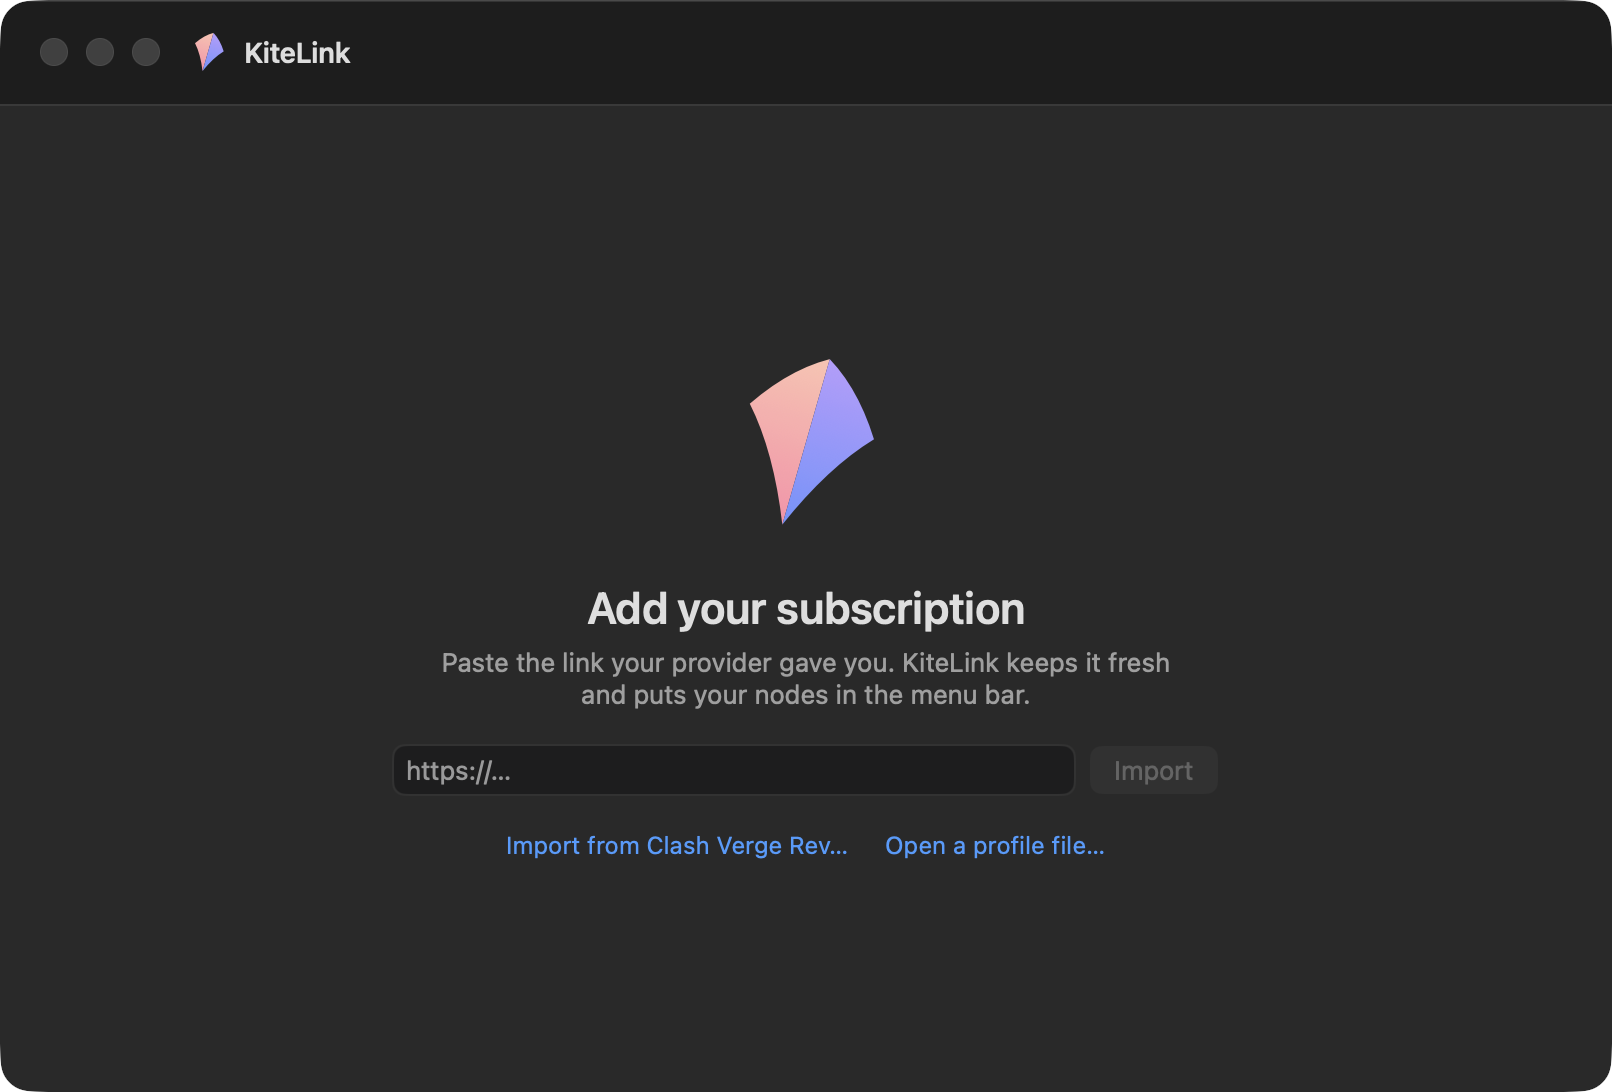
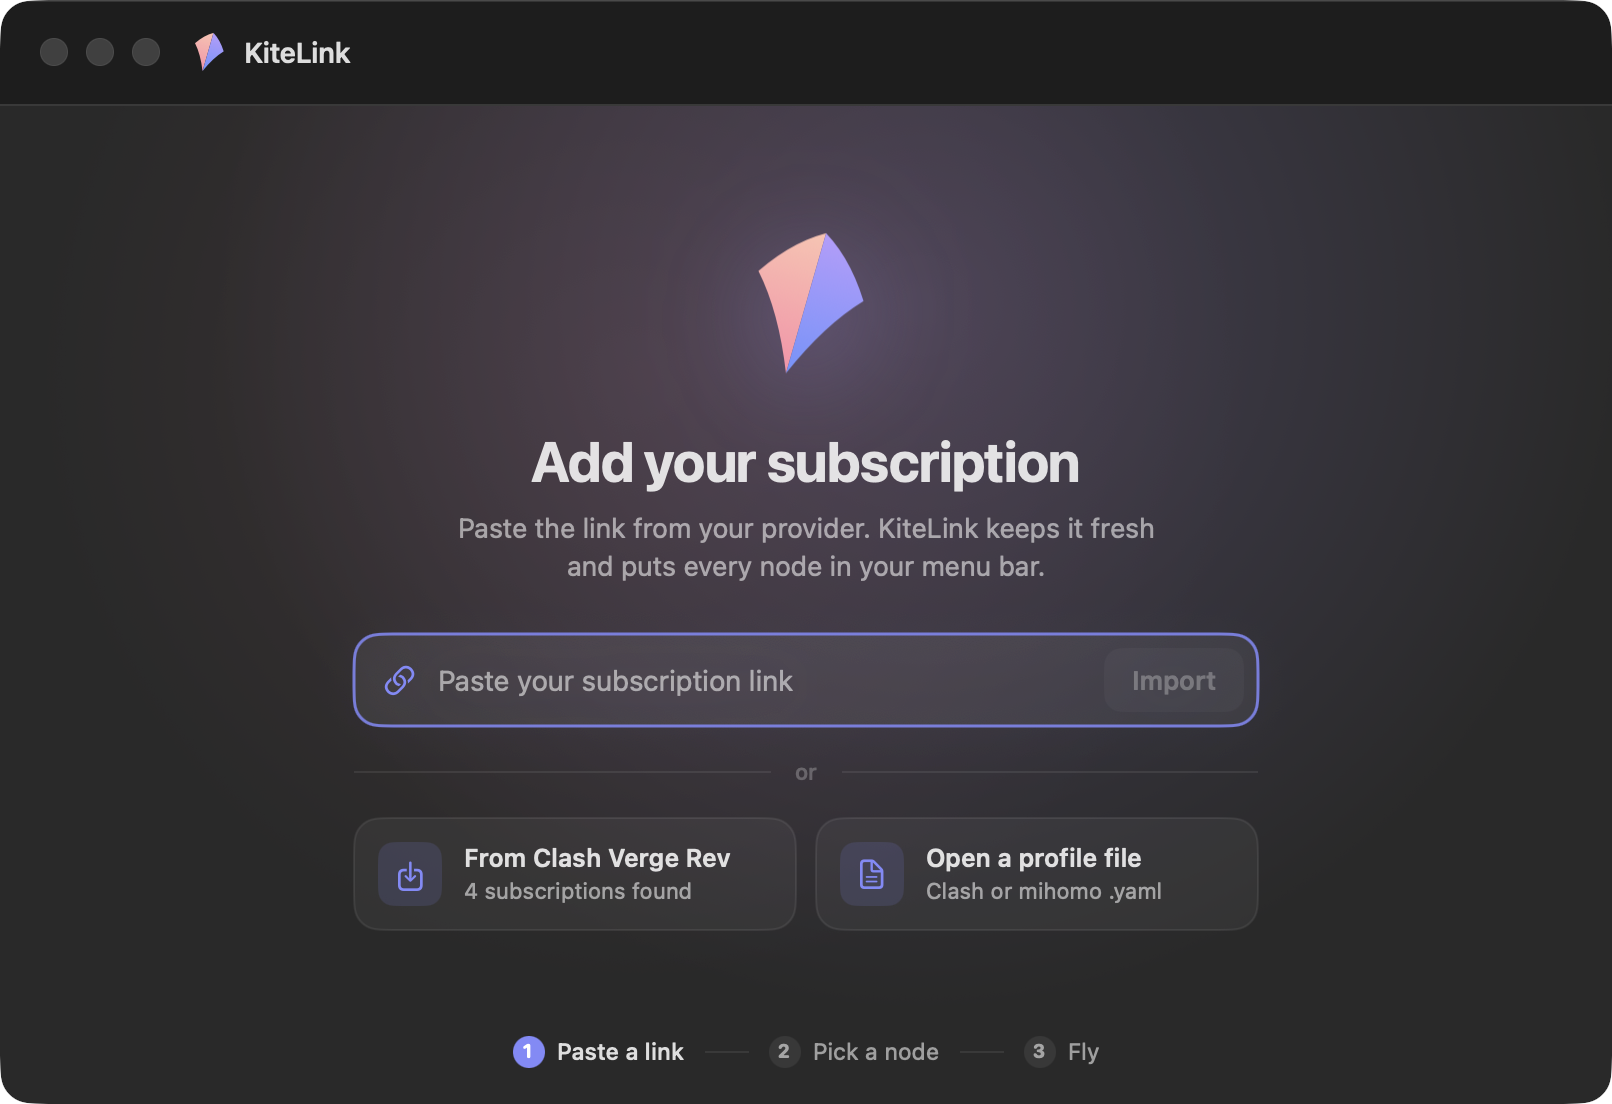
Onboarding: a designed first screen
One column over a soft dawn glow: the mark, a real headline, the link field
and Import as a single control (the only element with weight), the other two
ways in as quiet cards that say what they will find ("4 subscriptions
found"), and the product in one line of steps at the bottom. No system-blue
text links; light and dark both checked.

diff --git a/macos/KiteLink/MainView.swift b/macos/KiteLink/MainView.swift
@@ -23,7 +23,7 @@ struct MainView: View {
         .background(Kite.bg)
         .background(WindowSetup())
         .overlay(alignment: .bottom) { NoticeView() }
-        .frame(minWidth: 760, minHeight: 480)
+        .frame(minWidth: 760, minHeight: 520)
         .sheet(isPresented: $m.showProfiles) { ProfilesSheet().environmentObject(m) }
         .sheet(isPresented: $m.showImport) { ImportSheet(prefill: m.importPrefill, prefillName: m.importPrefillName).environmentObject(m) }
         .onOpenURL { m.handle(url: $0) }
@@ -323,37 +323,100 @@ struct NodeRow: View {
 
 // ---------------------------------------------------------------------------------------------- first run
 
+/// The first screen: one column, one job. The mark over a dawn glow, what to do in a line, the link field as the only
+/// strong element, and the two other ways in as quiet cards that say what they will find.
 struct Onboarding: View {
     @EnvironmentObject var m: AppModel
+    @Environment(\.accessibilityReduceMotion) private var reduceMotion
     @State private var link = ""
     @State private var busy = false
     @State private var error: String?
     @State private var showVerge = false
+    @State private var vergeCount = 0
+    @State private var aloft = false
+    @FocusState private var focused: Bool
 
     var body: some View {
-        VStack(spacing: 18) {
-            KiteMark(size: 104)
-            VStack(spacing: 6) {
-                Text("Add your subscription").font(.system(size: 22, weight: .semibold))
-                Text("Paste the link your provider gave you. KiteLink keeps it fresh and puts your nodes in the menu bar.")
-                    .foregroundStyle(.secondary).multilineTextAlignment(.center).frame(maxWidth: 380)
-            }
-            HStack(spacing: 8) {
-                TextField("https://…", text: $link).textFieldStyle(.roundedBorder).frame(width: 340).onSubmit { submit() }
-                Button(action: submit) {
-                    if busy { ProgressView().controlSize(.small).frame(width: 40) } else { Text("Import").frame(width: 40) }
+        ZStack {
+            DawnGlow()
+            VStack(spacing: 0) {
+                Spacer(minLength: 12)
+                KiteMark(size: 88)
+                    .shadow(color: Kite.lilac.opacity(0.4), radius: 28, y: 12)
+                    .offset(y: aloft ? -4 : 4)
+                    .animation(reduceMotion ? nil : .easeInOut(duration: 3.4).repeatForever(autoreverses: true), value: aloft)
+                    .padding(.bottom, 20)
+                Text("Add your subscription")
+                    .font(.system(size: 28, weight: .bold)).tracking(-0.6)
+                Text("Paste the link from your provider. KiteLink keeps it fresh\nand puts every node in your menu bar.")
+                    .font(.system(size: 13.5)).lineSpacing(3)
+                    .foregroundStyle(.secondary).multilineTextAlignment(.center)
+                    .padding(.top, 9)
+                linkField.padding(.top, 26)
+                if let error {
+                    Label(error, systemImage: "exclamationmark.circle.fill")
+                        .font(.system(size: 11.5)).foregroundStyle(Kite.poor)
+                        .frame(maxWidth: .infinity, alignment: .leading)
+                        .padding(.top, 8).padding(.horizontal, 4)
+                        .fixedSize(horizontal: false, vertical: true)
                 }
-                .keyboardShortcut(.defaultAction).buttonStyle(.borderedProminent).tint(Kite.accent).disabled(busy || link.isEmpty)
+                HStack(spacing: 12) {
+                    Rectangle().fill(Kite.hairline).frame(height: 1)
+                    Text("or").font(.system(size: 11, weight: .medium)).foregroundStyle(.tertiary)
+                    Rectangle().fill(Kite.hairline).frame(height: 1)
+                }
+                .padding(.vertical, 16)
+                HStack(spacing: 10) {
+                    if vergeCount > 0 {
+                        EntryCard(icon: "square.and.arrow.down", title: "From Clash Verge Rev",
+                                  detail: "\(vergeCount) subscription\(vergeCount == 1 ? "" : "s") found") { showVerge = true }
+                    }
+                    EntryCard(icon: "doc.text", title: "Open a profile file", detail: "Clash or mihomo .yaml") { openFile() }
+                }
+                Spacer(minLength: 12)
+                Steps().padding(.bottom, 18)
             }
-            if let error { Text(error).font(.caption).foregroundStyle(Kite.poor).frame(maxWidth: 400) }
-            HStack(spacing: 18) {
-                if VergeImport.isInstalled() { Button("Import from Clash Verge Rev…") { showVerge = true } }
-                Button("Open a profile file…") { openFile() }
-            }
-            .buttonStyle(.link).font(.callout)
+            .frame(width: 452)
         }
         .frame(maxWidth: .infinity, maxHeight: .infinity)
         .sheet(isPresented: $showVerge) { VergeImportSheet().environmentObject(m) }
+        .onAppear {
+            aloft = true
+            focused = true
+            vergeCount = (try? VergeImport.load().count) ?? 0
+        }
+    }
+
+    /// Field and button as one control: the only thing on the screen with weight.
+    private var linkField: some View {
+        HStack(spacing: 10) {
+            Image(systemName: "link")
+                .font(.system(size: 14, weight: .medium))
+                .foregroundStyle(focused ? Kite.accent : Color.secondary)
+            TextField("Paste your subscription link", text: $link)
+                .textFieldStyle(.plain).font(.system(size: 14))
+                .focused($focused)
+                .onSubmit(submit)
+            Button(action: submit) {
+                Group {
+                    if busy { ProgressView().controlSize(.small) } else { Text("Import").font(.system(size: 13, weight: .semibold)) }
+                }
+                .frame(width: 70, height: 32)
+                .foregroundStyle(link.isEmpty ? Color.secondary : Color.white)
+                .background(RoundedRectangle(cornerRadius: 9).fill(link.isEmpty ? AnyShapeStyle(Color.primary.opacity(0.07)) : AnyShapeStyle(Kite.accent)))
+                .contentShape(Rectangle())
+            }
+            .buttonStyle(.plain)
+            .disabled(busy || link.isEmpty)
+            .keyboardShortcut(.defaultAction)
+        }
+        .padding(.leading, 14).padding(.trailing, 7)
+        .frame(height: 46)
+        .background(RoundedRectangle(cornerRadius: 13).fill(Kite.field))
+        .overlay(RoundedRectangle(cornerRadius: 13).stroke(focused ? Kite.accent.opacity(0.85) : Kite.hairline, lineWidth: focused ? 1.5 : 1))
+        .shadow(color: focused ? Kite.accent.opacity(0.22) : .clear, radius: 12, y: 2)
+        .animation(.easeOut(duration: 0.15), value: focused)
+        .animation(.easeOut(duration: 0.15), value: link.isEmpty)
     }
 
     func submit() {
@@ -370,6 +433,72 @@ struct Onboarding: View {
         p.allowedContentTypes = [UTType.yaml, UTType(filenameExtension: "yml") ?? .yaml]
         p.allowsMultipleSelection = false
         if p.runModal() == .OK, let u = p.url { m.handle(url: u) }
+    }
+}
+
+/// A soft dawn behind the mark: the palette as light, not as decoration.
+struct DawnGlow: View {
+    var body: some View {
+        GeometryReader { g in
+            ZStack {
+                RadialGradient(colors: [Kite.lilac.opacity(0.2), .clear], center: UnitPoint(x: 0.57, y: 0.2), startRadius: 0, endRadius: g.size.width * 0.44)
+                RadialGradient(colors: [Kite.rose.opacity(0.11), .clear], center: UnitPoint(x: 0.4, y: 0.27), startRadius: 0, endRadius: g.size.width * 0.38)
+            }
+        }
+        .allowsHitTesting(false)
+    }
+}
+
+/// Another way in: an icon, what it is, and what it will find.
+struct EntryCard: View {
+    var icon: String
+    var title: String
+    var detail: String
+    var action: () -> Void
+    @State private var hover = false
+
+    var body: some View {
+        Button(action: action) {
+            HStack(spacing: 11) {
+                Image(systemName: icon)
+                    .font(.system(size: 14, weight: .medium)).foregroundStyle(Kite.accent)
+                    .frame(width: 32, height: 32)
+                    .background(RoundedRectangle(cornerRadius: 8).fill(Kite.accent.opacity(0.14)))
+                VStack(alignment: .leading, spacing: 2) {
+                    Text(title).font(.system(size: 12.5, weight: .semibold)).lineLimit(1)
+                    Text(detail).font(.system(size: 11)).foregroundStyle(.secondary).lineLimit(1)
+                }
+                Spacer(minLength: 0)
+            }
+            .padding(.horizontal, 12)
+            .frame(height: 56).frame(maxWidth: .infinity)
+            .background(RoundedRectangle(cornerRadius: 13).fill(hover ? Kite.cardHover : Kite.card))
+            .overlay(RoundedRectangle(cornerRadius: 13).stroke(hover ? Kite.accent.opacity(0.45) : Kite.hairline))
+            .contentShape(Rectangle())
+        }
+        .buttonStyle(.plain)
+        .onHover { hover = $0 }
+        .animation(.easeOut(duration: 0.12), value: hover)
+    }
+}
+
+/// The whole product in one line, with the step you are on lit.
+struct Steps: View {
+    private let items = ["Paste a link", "Pick a node", "Fly"]
+    var body: some View {
+        HStack(spacing: 10) {
+            ForEach(Array(items.enumerated()), id: \.offset) { i, text in
+                if i > 0 { Rectangle().fill(Kite.hairline).frame(width: 22, height: 1) }
+                HStack(spacing: 6) {
+                    Text("\(i + 1)")
+                        .font(.system(size: 9.5, weight: .bold, design: .rounded))
+                        .foregroundStyle(i == 0 ? Color.white : Color.secondary)
+                        .frame(width: 16, height: 16)
+                        .background(Circle().fill(i == 0 ? AnyShapeStyle(Kite.accent) : AnyShapeStyle(Color.primary.opacity(0.08))))
+                    Text(text).font(.system(size: 11.5, weight: i == 0 ? .medium : .regular)).foregroundStyle(i == 0 ? Color.primary : Color.secondary)
+                }
+            }
+        }
     }
 }
 

diff --git a/macos/KiteLink/DebugServer.swift b/macos/KiteLink/DebugServer.swift
@@ -13,6 +13,7 @@ import KiteKit
 ///   POST /paste  {"text":"…"}        types into the focused field via the pasteboard
 ///   POST /window {"id":"console|settings|main"}
 ///   POST /proxy  {"on":true|false}   what the System Proxy switch does
+///   POST /appearance {"mode":"light|dark|system"}
 @MainActor
 final class DebugServer {
     static var shared: DebugServer?
@@ -135,6 +136,13 @@ final class DebugServer {
             NSPasteboard.general.clearContents()
             NSPasteboard.general.setString(text, forType: .string)
             send(key: "v", code: 9, window: w, flags: .command)
+            return "{}"
+        case ("POST", "/appearance"):
+            switch json["mode"] as? String {
+            case "light": NSApp.appearance = NSAppearance(named: .aqua)
+            case "dark": NSApp.appearance = NSAppearance(named: .darkAqua)
+            default: NSApp.appearance = nil
+            }
             return "{}"
         case ("POST", "/proxy"):
             // The same call the System Proxy switch makes, for when the window is not on screen.

diff --git a/macos/KiteLink/Theme.swift b/macos/KiteLink/Theme.swift
@@ -23,6 +23,11 @@ enum Kite {
     static let bg = dynamic(light: NSColor(white: 1, alpha: 1), dark: NSColor(white: 0.16, alpha: 1))
     static let rowSelected = dynamic(light: NSColor(red: 0.427, green: 0.455, blue: 0.957, alpha: 0.13), dark: NSColor(red: 0.56, green: 0.58, blue: 1, alpha: 0.24))
     static let hairline = Color.primary.opacity(0.09)
+    /// A quiet card on the window background.
+    static let card = dynamic(light: NSColor(white: 1, alpha: 0.7), dark: NSColor(white: 1, alpha: 0.045))
+    static let cardHover = dynamic(light: NSColor(white: 1, alpha: 1), dark: NSColor(white: 1, alpha: 0.08))
+    /// The inside of a text field drawn by the app.
+    static let field = dynamic(light: NSColor(white: 1, alpha: 1), dark: NSColor(white: 1, alpha: 0.06))
     static let good = Color(nsColor: .systemGreen)
     static let fair = Color(nsColor: .systemOrange)
     static let poor = Color(nsColor: .systemRed)

diff --git a/macos/KiteLink/WindowChrome.swift b/macos/KiteLink/WindowChrome.swift
@@ -23,7 +23,7 @@ struct WindowSetup: NSViewRepresentable {
             w.titleVisibility = .hidden
             w.styleMask.insert(.fullSizeContentView)
             w.toolbar = nil
-            w.minSize = NSSize(width: 760, height: 480)
+            w.minSize = NSSize(width: 760, height: 520)
             w.tabbingMode = .disallowed
             w.isMovableByWindowBackground = true
             for name in [NSWindow.didResizeNotification, NSWindow.didUpdateNotification, NSWindow.didExitFullScreenNotification, NSWindow.didBecomeKeyNotification] {
